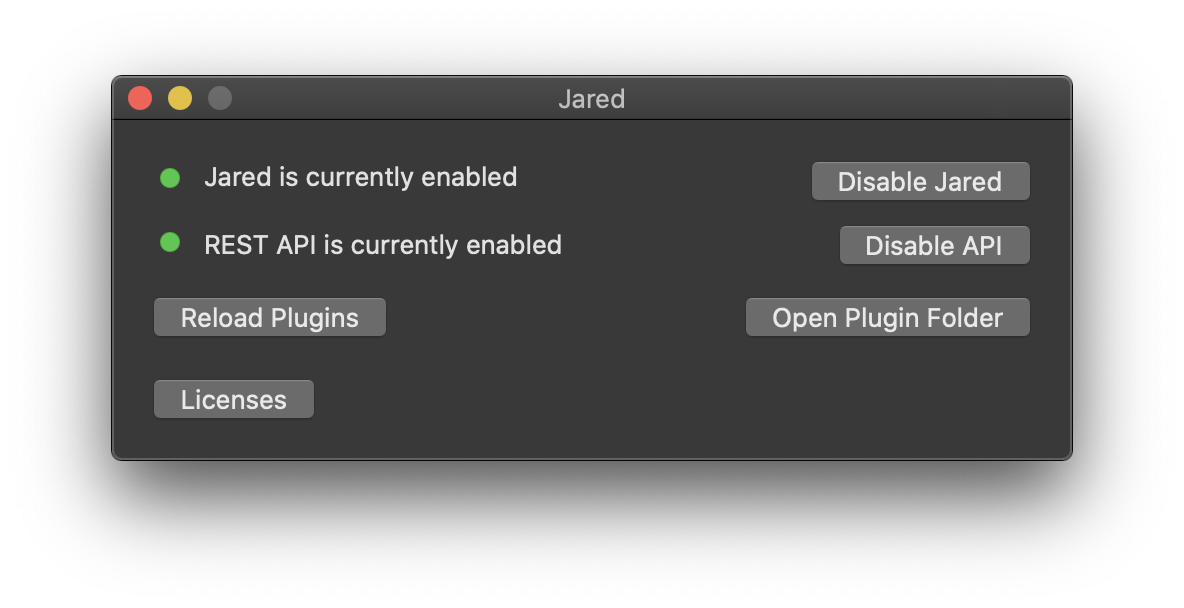
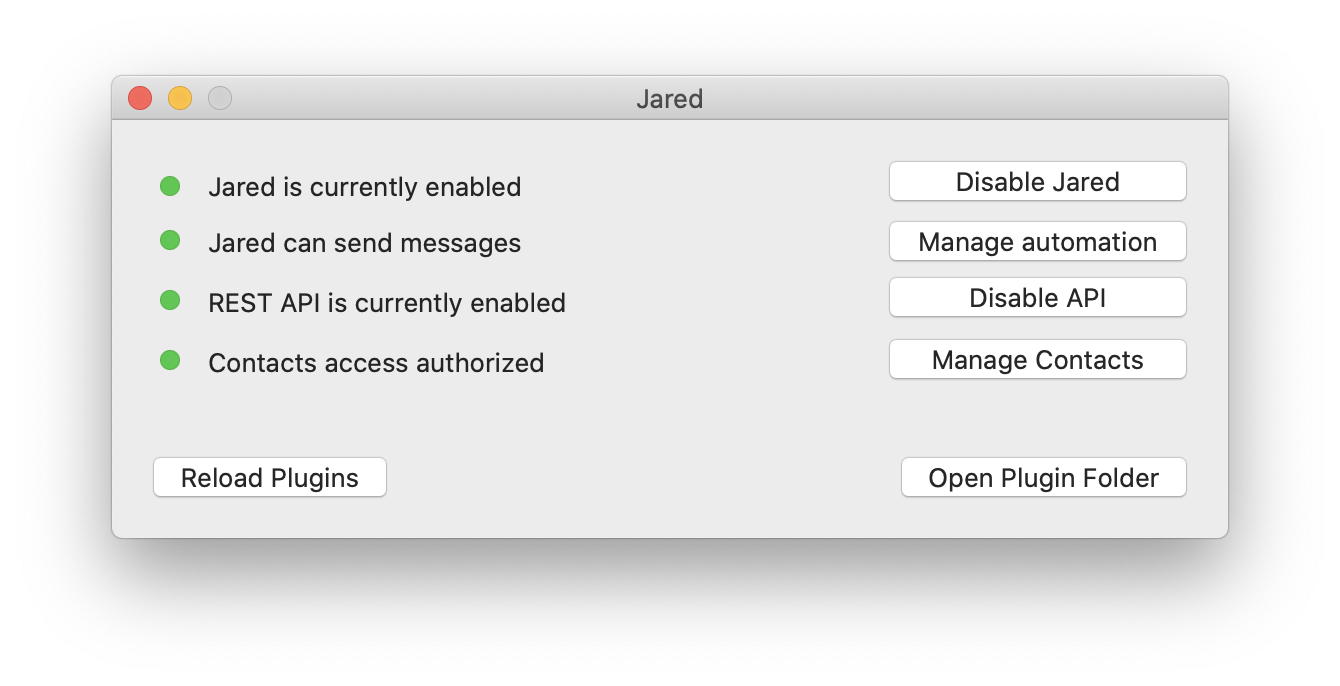
Improve documentation

diff --git a/Jared/CoreModule.swift b/Jared/CoreModule.swift
@@ -64,7 +64,7 @@ class CoreModule: RoutingModule {
         
         let name = Route(name: "/name", comparisons: [.startsWith: ["/name"]], call: {[weak self] in self?.changeName($0)}, description: "Change what Jared calls you", parameterSyntax: "/name,[your preferred name]")
         
-        let schedule = Route(name: "/schedule", comparisons: [.startsWith: ["/schedule"]], call: {[weak self] in self?.schedule($0)}, description: NSLocalizedString("scheduleDescription"), parameterSyntax: "/schedule")
+        let schedule = Route(name: "/schedule", comparisons: [.startsWith: ["/schedule"]], call: {[weak self] in self?.schedule($0)}, description: NSLocalizedString("scheduleDescription"), parameterSyntax: "Must be one of these type of inputs: /schedule,add,1,Week,5,full Message\n/schedule,delete,1\n/schedule,list")
         
         let barf = Route(name: "/barf", comparisons: [.startsWith: ["/barf"]], call: {[weak self] in self?.barf($0)}, description: NSLocalizedString("barfDescription"))
         
@@ -167,7 +167,7 @@ class CoreModule: RoutingModule {
     }
     
     func schedule(_ message: Message) {
-        // /schedule,add,1,week,5,full Message
+        // /schedule,add,1,Week,5,full Message
         // /schedule,delete,1
         // /schedule,list
         guard let parameters = message.getTextBody()?.components(separatedBy: ",") else {

diff --git a/readme.md b/readme.md
@@ -9,85 +9,81 @@
 <a name='Download'/>
 
 ## Download Links  
-Please check out the latest [release](https://github.com/ZekeSnider/Jared/releases/latest) page for an up to date download.
+Please check out the [release](https://github.com/ZekeSnider/Jared/releases/latest) page for an up to date pre-compiled download.
 
 ## What is Jared?  
-A powerful and easily extensible iMessage bot. It makes it possible to add chat bot features to any iMessage conversation. It includes some basic commands built in. API integrations, games, custom emotes, and much more can be added by installing plug-ins. 
+![Jared usage screenshot](/Documentation/Screenshots/Example.png)
+
+A powerful and easily extensible iMessage bot. It makes it possible to add chat bot features to any iMessage conversation. It includes some basic commands built in. API integrations, games, custom emotes, and much more can be added by using webhooks, the REST API, or by installing plugins. 
 
 Any pull requests and new GitHub issues are much appreciated! If you would like to develop a plugin for Jared, see the plugin section below. I'm always available on [Twitter](https://twitter.com/zekesnider) if you have any ideas/suggestions.
-
-## How it works  
-Jared reads from the Messages database on a set interval and queries for new messages. It provides a routing framework for actioning on messages, and uses AppleScript to send outgoing messages. It's also multi-threaded so it can take care of multiple requests at once. Jared allows expansion via `.bundle` plugin files. This allows commands to be added without modifying the main Jared code base. 
-
-I've tried using private APIs such as MessagesKit to send/receive messages to no avail so far. If you have any leads on this front I'd love to hear about it.
 
 ## Installation  
 ![Jared Main Window](/Documentation/Screenshots/MainWindow.png)
 
 Jared must be run a machine running macOS with an active messages account logged in. It has only been tested on 10.14 Mojave and later. It may work on old versions of macOS but this is not guaranteed as there may have been changes to the message database's schema. If you don't want Jared posting as you, it is recommended that you create a new Apple ID and user account on your mac, and run it in the background under that user. That way it's not using your main Apple ID.
 
-1. Download the Jared app and move it to the applications folder.  
+1. Download Jared.app and move it to the applications folder.  
 
 See [download section](#Download) at the top. 
 
-2. Allow Jared "Full Disk Access" in System Preferences.
+2. Run Jared.app, Allow Jared "Full Disk Access" in System Preferences.
 
 This is required because of macOS permissions that limit access to the messages database. 
 
-3. Run Jared.app
+3. Grant access to automate Messages
 
-4. (Optional) Grant access to contacts
+If you are running macOS Catalina or later, you will need to allow Jared access to automate the message app. This allows Jared to send messages.
 
-You can (optionally) allow Jared access to your contacts so that it can provide and update names of contacts. The contacts are used to set/retrieve names only. Nothing is sent to any server.
+4. (Optional) Allow contacts access
 
-5. (Optional) Allow inbound network connections
+You can optionally allow Jared access to your contacts so that it can provide and update names of contacts. The contacts are used to set/retrieve names only. 
 
-If you have a firewall enabled on your mac, and you wish to use the REST API, you will need to allow Jared to accept inbound network connections as necessary. 
+5. (Optional) Start REST API server
 
-6. Grant access to automate Messages
-
-If you are running macOS Catalina or later, you may see a system dialog requesting access to automate message when using Jared. This allows Jared to send messages.
+If you wish to use the REST API, you will need to enable it. If you have a firewall enabled on your mac, you will see a dialog prompting you to allow Jared access to the port it is binding. 
 
 
-Once you have Jared setup you can type `/help` to get a list of commands. `/help,[command name]` will give you specific information. Use `/reload` to reload plugins.
-
-## Commands
-Type `/help` in a group chat with Jared to see a full list of commands. Type `/help,"name of command here"` to get detail on that specific command. 
-
-### Built in commands
+## Built in commands
 For reference, here is a list of the commands built in to Jared. Because functionality can be added with plugins, the built in functionality is kept light.
 
-+ Thank You: Thanks Jared
++ `/help`: Lists all commands. `/help,[command name]` will give you information on a specific route.
++ `/reload`: Reload plugins
++ `/enable`: Enables Jared
++ `/disable`: Disables Jared
 + `/ping`: Check if the chat bot is available
 + `/version`: Get the version of Jared running
 + `/send`: Send a message repeatedly
 + `/schedule`: Schedule messages
 + `/name`: Change what Jared calls you
 + `/whoami`: Get your name
-
-### Configuration  
-A configuration file is located at `~/Library/Application Support/Jared/config.json` which enables disabling of commands if desired. See [config-sample.json](Documentation/config-sample.json) for an example.
-
-## REST API
-Jared contains a web server with a REST API that can be enabled. For more information, [check out the REST API documentation](Documentation/restapi.md).
-
-## Webhooks
-Jared supports webhooks for sending metadata about incoming and outgoing messages. To configure webhooks, add them to the `config.json` mentioned above. For more info on the webhooks api, [check out the webhook documentation](Documentation/webhooks.md).
-
-## Plugins  
-Plugins are loaded dynamically from the `~/Library/Application Support/Jared/Plugins` folder. To install a module, drag it in there and then send `/reload` to Jared. 
++ `/barf`: Returns a json representation of your message, used for debugging
++ `Thank you Jared`: Thanks Jared
 
 
-### Plugin List  
-+ None yet!  
-If you developed any plugins, please contact me a link so I can add a link here! I will be working on a few extra modules of my own as well, and will add them here when they are complete.
+## Configuration  
+A configuration file is located at `~/Library/Application Support/Jared/config.json` which allows you to:
++ Configure webhooks
++ Set REST API port
++ Disable specific routes
 
-### Development  
-If you would like to develop your own plugins, you need to build a .bundle to be loaded by Jared. You must include JaredFramework.framework in your project and define a public subclass of RoutingModule. The bundle must set this class as the principle class in `Info.plist`. `Info.plist` must also contain a string for `JaredFrameworkVersion`, the current version number is `J2.0.0`.
+See [config-sample.json](Documentation/config-sample.json) for an example.
 
-To include JaredFramework you have 3 options:
-1. Manually include it in the project (Grab it from the [release](https://github.com/ZekeSnider/Jared/releases/latest) page)
-2. Use [Carthage](https://github.com/Carthage/Carthage)
-3. Use [CocoaPods](https://cocoapods.org) (coming soon)
+## Extensions
+Jared Provides a variety of APIs to allow you to easily add your own commands, automate messages, and more. For all API documentation, see the [documentation hub](/Documentation).
 
-Take a look at the [Sample project](/Documentation/SampleModule) to see how the project should be configured. The README there contains instructions for how to build a plugin. Also look at the modules in contained in the main project for examples of more complicated routings.  
+### Plugins  
+Additional routes can be added via modularized plugins, written in native Swift code. Plugins are loaded dynamically from the `~/Library/Application Support/Jared/Plugins` folder. To install a module, drag it in there and then send `/reload` to Jared, or click `Reload Plugins` in the UI.
+  
+For more information on developing your own plugins, see the [plugin documentation](Documentation/plugins.md). If you developed any plugins, please contact me a link so I can add a link here! I will be working on a few extra modules of my own as well, and will add them here when they are complete.
+
+### Webhooks
+Jared supports webhooks for sending your server information about incoming and outgoing messages. Your server can respond to these requests to send messages, or use the REST API to send messages at any time. To configure webhooks, add them to the `config.json` mentioned above. For more info on the webhooks API, check out the [webhook documentation](Documentation/webhooks.md).
+
+### REST API
+Jared contains a web server with a REST API that can be enabled. This allows you make HTTP requests to send messages to any recipient. For more information, [check out the REST API documentation](Documentation/restapi.md).
+
+## How Jared works  
+Jared reads from the Messages database on a set interval and queries for new messages. It provides a routing framework for actioning on messages, and uses AppleScript to send outgoing messages. It's also multi-threaded so it can take care of multiple requests at once. Jared allows expansion via `.bundle` plugin files. This allows commands to be added without modifying the main Jared code base. 
+
+I've tried using private APIs such as MessagesKit to send/receive messages to no avail so far. If you have any leads on this front I'd love to hear about it. 

diff --git a/Documentation/webhooks.md b/Documentation/webhooks.md
@@ -3,7 +3,7 @@
 ## Configuration
 To add webhooks, add their URLs to `config.json`'s `webhooks` key. You can define two types of webhooks:
 1. Route webhook  
-This is a webhook that is only called for messages that match specific routes defined.
+This is a webhook that is only called for messages that match specific routes defined. For more information, see the [routes documentation](routes.md).
 2. Global webhook  
 This is a webhook that is called for every single message sent or received.
 
@@ -40,6 +40,8 @@ When a webhook is triggered, The body of the POST request is in the following fo
   "body": {
     "message": "Jared is an amazing app"
   },
+  "sendStyle": "regular",
+  "attachments": [],
   "recipient": {
     "handle": "+14256667777",
     "givenName": "Zeke",
@@ -50,7 +52,8 @@ When a webhook is triggered, The body of the POST request is in the following fo
     "givenName": "Taylor",
     "isMe": false
   },
-  "date": "2019-02-03T22:05:05.000Z"
+  "date": "2019-02-03T22:05:05.000Z",
+  "guid": "EA123B39-7A45-40D9-BF04-A748B3148695"
 }
 ```
 
@@ -60,6 +63,8 @@ When a webhook is triggered, The body of the POST request is in the following fo
   "body": {
     "message": "bloodline is the best song on thank u next"
   },
+  "sendStyle": "regular",
+  "attachments": [],
   "recipient": {
     "handle": "ariana@grande.com",
     "givenName": "Ariana",
@@ -70,7 +75,8 @@ When a webhook is triggered, The body of the POST request is in the following fo
     "givenName": "Zeke",
     "isMe": true
   },
-  "date": "2019-02-03T22:05:05.000Z"
+  "date": "2019-02-03T22:05:05.000Z",
+  "guid": "EA123B39-7A45-40D9-BF04-A748B3148614"
 }
 ```
 
@@ -134,8 +140,41 @@ When a webhook is triggered, The body of the POST request is in the following fo
 }
 ```
 
+*incoming group message*
+```
+{
+  "sender": {
+    "handle": "handle@icloud.com",
+    "givenName": "Jared",
+    "isMe": false
+  },
+  "sendStyle": "regular",
+  "date": "2020-08-22T19:59:13.000Z",
+  "attachments": [],
+  "recipient": {
+    "name": "Testing Room",
+    "handle": "iMessage;+;chat123456789999111888",
+    "participants": [
+      {
+        "handle": "handle@icloud.com",
+        "givenName": "Name",
+        "isMe": false
+      },
+      {
+        "handle": "handle2@gmail.com",
+        "isMe": false
+      }
+    ]
+  },
+  "body": {
+    "message": "Hi"
+  },
+  "guid": "760B85F7-122D-42A5-ACE0-44F44150BF04"
+}
+```
+
 ## Webhook Responses
-When called, Jared will wait for 10 seconds for a response from the webhook endpoint. If a response is received in time, Jared will then respond to the triggering message with the content of the webhook response. The response must have a `200` http status code, and be in the following format:
+When called, Jared will wait for 10 seconds for a response from the webhook endpoint. If a response is received in time, Jared will then respond to the triggering message with the content of the webhook response. The response must have a `200` HTTP status code, and be in the following format:
 ```
 {
   "success": true,

diff --git a/Documentation/routes.md b/Documentation/routes.md
@@ -1,9 +1,35 @@
 # Routes
 
-Through using either native plugins, or a webhook configuration, you can define routes which are used to define triggers for messages. 
+By using either native plugins, or a webhook configuration, you can define routes which are used to define triggers for messages. 
 
+## Parameters
 
 `name`: A string for the name of the route. This must be globally unique.
+`comparisons`: A dictionary of `[Comapare: [String]]` that defines triggers for your route. The following is a list of `Compare` types:
+
++ `startsWith`: String starts with
++ `contains`: String contains
++ `is`: String matches exactly
++ `containsURL`: String contains this URL
++ `isReaction`: Message is a reaction message (tapback)
+
+
 `parameterSyntax`: A string that describes how to exercise your route. 
 `description`: A string that describes the purpose of this route
+`call`: A callback method to execute when the route is triggered. This is only required for native plugins. If you're using webhooks, your webhook endpoint will be called automatically. 
+
+## Example
+The following is an example configuration of one of Jared's built in routes, `/send`.
+
+```
+{
+	"name": "/send",
+	"comparisons": {
+		"startsWith": ["/send"]
+	}
+	"parameterSyntax": "/send,[number of times],[send delay],[message to send]",
+	"description": "Send a message repeatedly"
+
+}
+```
 

diff --git a/Documentation/plugins.md b/Documentation/plugins.md
@@ -1,0 +1,12 @@
+# Plugins
+
+Plugins allow you to add additional routing modules to Jared by using native Swift code.
+
+If you would like to develop your own Jared plugins, you need to build a .bundle to be loaded by Jared. You must include JaredFramework.framework in your project and define a public subclass of RoutingModule. The bundle must set this class as the principle class in `Info.plist`. `Info.plist` must also contain a string for `JaredFrameworkVersion`, the current version number is `J3.0.0`.
+
+To include JaredFramework you have 3 options:
+1. Manually include it in the project (Grab it from the [release](https://github.com/ZekeSnider/Jared/releases/latest) page)
+2. Use [Carthage](https://github.com/Carthage/Carthage)
+3. Use [CocoaPods](https://cocoapods.org) (coming soon)
+
+Take a look at the [Sample project](/Documentation/SampleModule) to see how the project should be configured. The README there contains instructions for how to build a plugin. Also look at the modules in contained in the main project for examples of more complicated routings. 

diff --git a/Documentation/readme.md b/Documentation/readme.md
@@ -1,0 +1,9 @@
+# Documentation Hub
+
+Welcome to the Jared documentation hub. Here you'll find a glossary of Jared's API documentation.
+
++ [Routes](routes.md)
++ [Plugins](plugins.md)
++ [Sample Plugin](SampleModule)
++ [Webhooks](webhooks.md)
++ [REST API](restapi.md)
